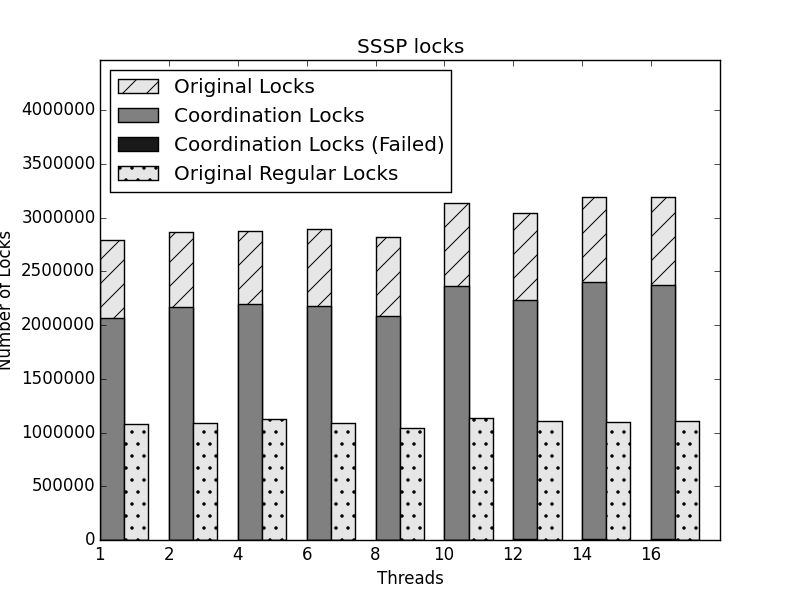
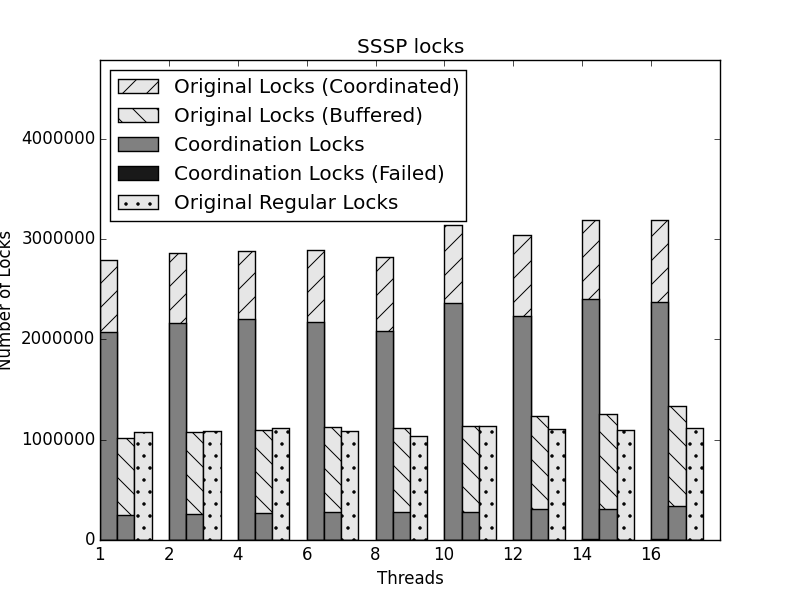
Update figures with SSSP.

Changed region(s): [[0.0312, 0.09, 0.625, 0.9], [0.7188, 0.3, 0.9062, 0.9], [0.625, 0.33, 0.7188, 0.9]]

diff --git a/results/locks/plot_three.py b/results/locks/plot_three.py
@@ -8,7 +8,7 @@ import matplotlib as mpl
 import numpy as np
 from matplotlib import rcParams
 from numpy import nanmax
-from lib import read_experiment
+from lib import read_experiment, YAXIS
 
 if len(sys.argv) != 7:
    print "not enough arguments"
@@ -46,7 +46,8 @@ pfailo = ax.bar(ind + width, opt_exp.get_fail_locks(), width, color=cmap(0.1))
 
 ptotalreg = ax.bar(ind + 2 * width, reg_exp.get_total_locks(), width, color=cmap(0.9), hatch=".")
 pfailreg = ax.bar(ind + 2 * width, reg_exp.get_fail_locks(), width, color=cmap(0.5))
-ax.set_ylim([0, max([max(reg_exp.get_total_locks()), max(coord_exp.get_total_locks())])*1.4])
+ax.set_ylim([0, max([max(reg_exp.get_total_locks()), max(coord_exp.get_total_locks())])*1.5])
+#ax.set_ylim([0, YAXIS])
 ax.set_xticks(ind)
 ax.set_xticklabels(('1', '2', '4', '6', '8', '10', '12', '14', '16'))
 ax.legend((ptotalc, ptotalo, pcoordc, pfailc, ptotalreg), ('Original Locks (Coordinated)', 'Original Locks (' + opt_name + ')', 'Coordination Locks', 'Coordination Locks (Failed)', 'Original Regular Locks'), loc=2)

diff --git a/results/locks/plot.py b/results/locks/plot.py
@@ -8,7 +8,7 @@ import matplotlib as mpl
 import numpy as np
 from matplotlib import rcParams
 from numpy import nanmax
-from lib import read_experiment
+from lib import read_experiment, YAXIS
 
 reg_file = sys.argv[1]
 coord_file = sys.argv[2]
@@ -34,6 +34,7 @@ pfail = ax.bar(ind, coord_exp.get_fail_locks(), width, color=cmap(0.1))
 ptotalreg = ax.bar(ind + width, reg_exp.get_total_locks(), width, color=cmap(0.9), hatch=".")
 pfailreg = ax.bar(ind + width, reg_exp.get_fail_locks(), width, color=cmap(0.5))
 ax.set_ylim([0, max([max(reg_exp.get_total_locks()), max(coord_exp.get_total_locks())])*1.4])
+#ax.set_ylim([0, YAXIS])
 ax.set_xticks(ind)
 ax.set_xticklabels(('1', '2', '4', '6', '8', '10', '12', '14', '16'))
 ax.legend((ptotal, pcoord, pfail, ptotalreg), ('Original Locks', 'Coordination Locks', 'Coordination Locks (Failed)', 'Original Regular Locks'), loc=2)

diff --git a/locks.tex b/locks.tex
@@ -6,12 +6,6 @@
 
 \begin{topfig}
    \begin{center}
-      \subfloat[]{\includegraphics[width=6.5cm]{results/locks/minmax-locks.png}}
-   \end{center}
-\end{topfig}
-
-\begin{topfig}
-   \begin{center}
       \subfloat[]{\includegraphics[width=6.5cm]{results/locks/sssp-locks.png}}
    \end{center}
 \end{topfig}

diff --git a/results/locks/lib.py b/results/locks/lib.py
@@ -1,5 +1,7 @@
 import re
 
+YAXIS = 200000000
+
 class dataobj(object):
    ATTRS = ['coord_normal_lock', 'coord_priority_lock', 'schedule_next_lock', 'add_priority_lock', 'set_priority_lock', 'set_moving_lock', 'set_static_lock', 'set_affinity_lock']
 
